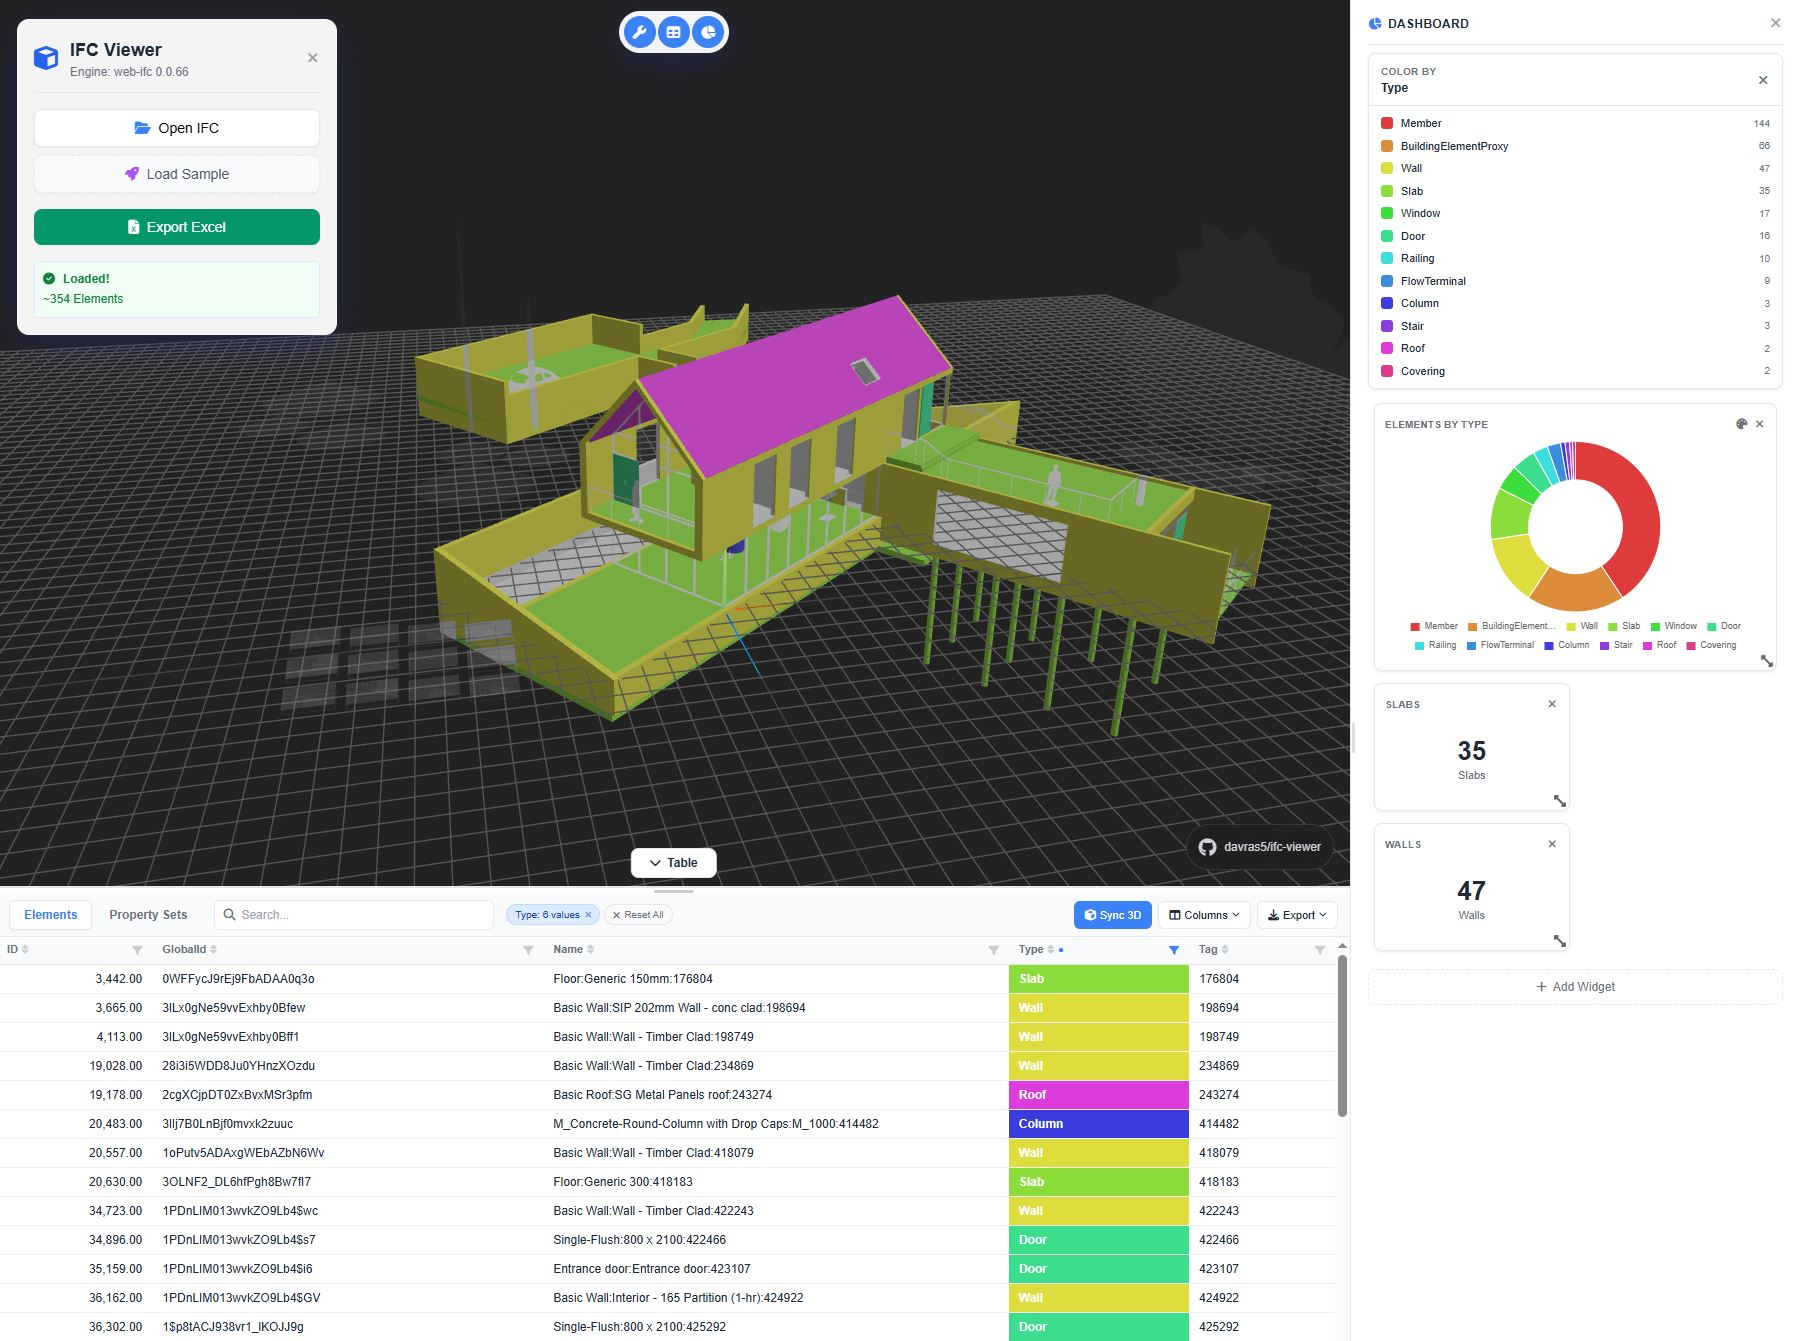
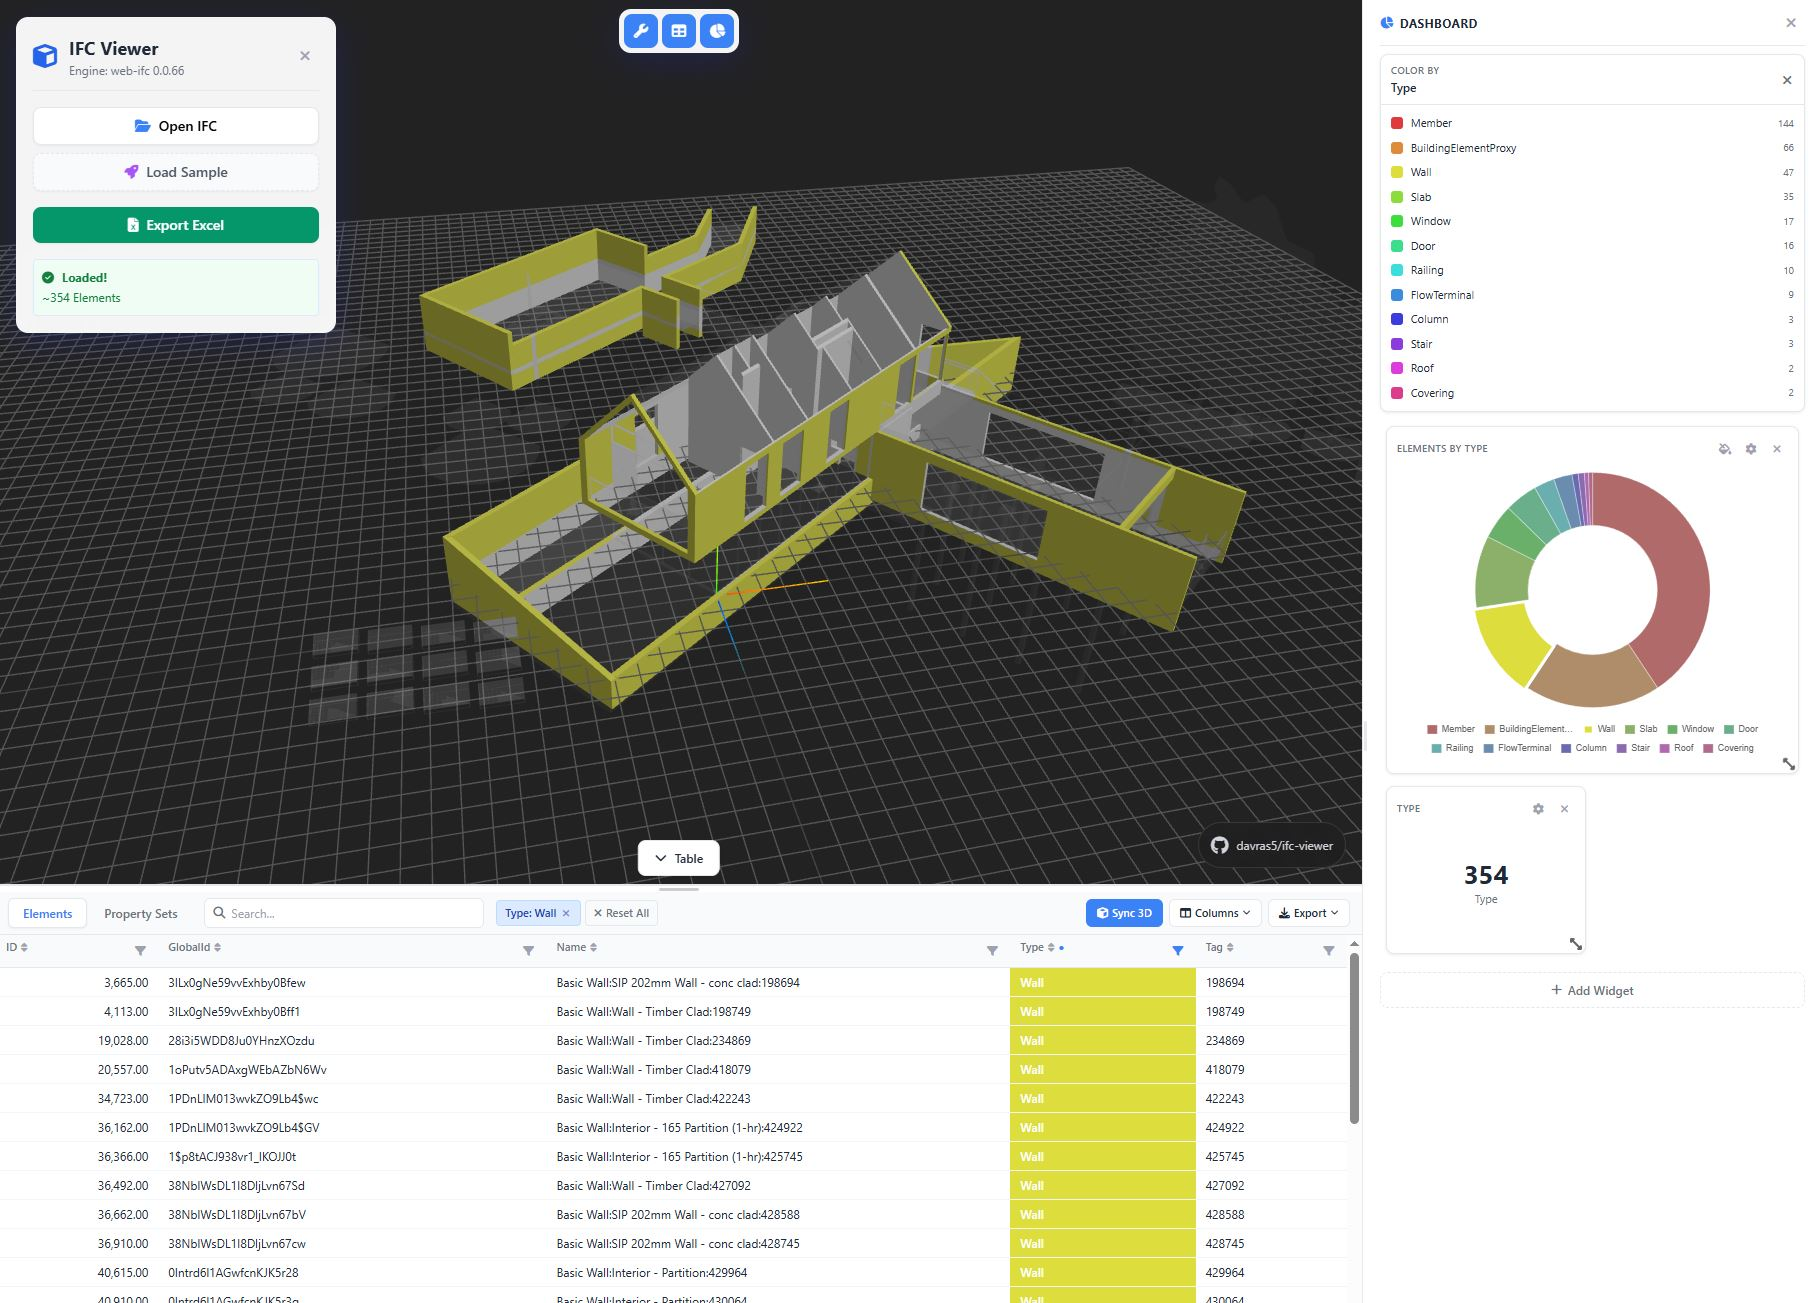
Update

diff --git a/js/app.js b/js/app.js
@@ -87,7 +87,8 @@ const ELEMENT_CATEGORIES = [
     WebIFC.IFCWINDOW, WebIFC.IFCDOOR, WebIFC.IFCCOLUMN, WebIFC.IFCBEAM,
     WebIFC.IFCFURNISHINGELEMENT, WebIFC.IFCBUILDINGELEMENTPROXY, WebIFC.IFCROOF,
     WebIFC.IFCSTAIR, WebIFC.IFCRAILING, WebIFC.IFCMEMBER, WebIFC.IFCCOVERING,
-    WebIFC.IFCFLOWTERMINAL, WebIFC.IFCFLOWSEGMENT
+    WebIFC.IFCFLOWTERMINAL, WebIFC.IFCFLOWSEGMENT,
+    WebIFC.IFCBUILDINGSTOREY, WebIFC.IFCSPACE
 ];
 
 const tablePanel = document.getElementById('table-panel');
@@ -176,6 +177,86 @@ onLegendChange((visible) => {
 
 // Init dashboard
 initDashboard();
+
+// Viewer toolbar
+const viewerToolbar = document.getElementById('viewer-toolbar');
+const tbViewerTools = document.getElementById('tb-viewer-tools');
+const vtMaterial = document.getElementById('vt-material');
+const vtGrid = document.getElementById('vt-grid');
+const vtPan = document.getElementById('vt-pan');
+
+function setViewerToolbarOpen(open) {
+    viewerToolbar.classList.toggle('hidden', !open);
+    tbViewerTools.classList.toggle('active', open);
+}
+
+tbViewerTools.addEventListener('click', () => {
+    setViewerToolbarOpen(viewerToolbar.classList.contains('hidden'));
+});
+document.getElementById('vt-close').addEventListener('click', () => {
+    setViewerToolbarOpen(false);
+});
+
+// Material toggle: cycles through Solid → X-ray → Wireframe
+let materialMode = 0; // 0=solid, 1=xray, 2=wireframe
+const materialModeIcons = ['fa-swatchbook', 'fa-eye', 'fa-border-none'];
+const materialModeTitles = ['Solid view', 'X-ray view', 'Wireframe view'];
+
+function applyMaterialMode() {
+    if (!ifcModel) return;
+    const mat = ifcModel.material;
+    const applyTo = Array.isArray(mat) ? mat : [mat];
+
+    for (const m of applyTo) {
+        switch (materialMode) {
+            case 0: // Solid
+                m.transparent = false;
+                m.opacity = 1;
+                m.wireframe = false;
+                m.depthWrite = true;
+                break;
+            case 1: // X-ray
+                m.transparent = true;
+                m.opacity = 0.3;
+                m.wireframe = false;
+                m.depthWrite = false;
+                break;
+            case 2: // Wireframe
+                m.transparent = false;
+                m.opacity = 1;
+                m.wireframe = true;
+                m.depthWrite = true;
+                break;
+        }
+        m.needsUpdate = true;
+    }
+
+    // Update button icon and state
+    const icon = vtMaterial.querySelector('i');
+    icon.className = `fa-solid ${materialModeIcons[materialMode]}`;
+    vtMaterial.title = materialModeTitles[materialMode];
+    vtMaterial.classList.toggle('active', materialMode !== 0);
+}
+
+vtMaterial.addEventListener('click', () => {
+    materialMode = (materialMode + 1) % 3;
+    applyMaterialMode();
+});
+
+vtGrid.addEventListener('click', () => {
+    const active = vtGrid.classList.toggle('active');
+    grid.visible = active;
+    axes.visible = active;
+});
+
+vtPan.addEventListener('click', () => {
+    const active = vtPan.classList.toggle('active');
+    if (active) {
+        controls.mouseButtons.LEFT = THREE.MOUSE.PAN;
+    } else {
+        controls.mouseButtons.LEFT = THREE.MOUSE.ROTATE;
+    }
+});
 
 // Shared data for dashboard
 window.__ifcViewerData = { elements: [], psets: [] };
@@ -399,6 +480,10 @@ async function loadModel(url) {
         ifcModel = await ifcLoader.loadAsync(url);
         scene.add(ifcModel);
 
+        // Reset material mode to solid on new model
+        materialMode = 0;
+        applyMaterialMode();
+
         // Auto-center camera
         const box = new THREE.Box3().setFromObject(ifcModel);
         const center = box.getCenter(new THREE.Vector3());
@@ -434,6 +519,70 @@ async function loadModel(url) {
 }
 
 async function extractTableData(modelID) {
+    // Build storey and space maps: elementExpressID → name
+    const storeyMap = new Map(); // expressID → storey name
+    const spaceMap = new Map();  // expressID → space name
+
+    try {
+        // Get all spatial containment relationships
+        const rels = await ifcLoader.ifcManager.getAllItemsOfType(modelID, WebIFC.IFCRELCONTAINEDINSPATIALSTRUCTURE, true);
+        for (const rel of rels) {
+            const structure = rel.RelatingStructure;
+            if (!structure) continue;
+
+            // Resolve the spatial structure element
+            let structureProps;
+            try {
+                structureProps = await ifcLoader.ifcManager.getItemProperties(modelID, structure.value);
+            } catch (_) { continue; }
+
+            const structureName = structureProps?.Name?.value ?? '';
+            const structureType = structureProps?.constructor?.name ?? '';
+
+            const relatedElements = rel.RelatedElements || [];
+            for (const ref of relatedElements) {
+                const eid = ref.value;
+                if (structureType.includes('Storey') || structureType.includes('BuildingStorey')) {
+                    storeyMap.set(eid, structureName);
+                } else if (structureType.includes('Space')) {
+                    spaceMap.set(eid, structureName);
+                }
+            }
+        }
+
+        // Also get IfcSpace entities and map elements inside them
+        const spaceRels = await ifcLoader.ifcManager.getAllItemsOfType(modelID, WebIFC.IFCRELSPACEBOUNDARY, false)
+            .catch(() => []);
+        // IfcRelSpaceBoundary is less common; spatial containment above covers most cases
+    } catch (err) {
+        console.warn('Could not extract spatial structure:', err);
+    }
+
+    // Get storey info for elements via aggregation (elements in storeys via IfcRelAggregates)
+    try {
+        const aggRels = await ifcLoader.ifcManager.getAllItemsOfType(modelID, WebIFC.IFCRELAGGREGATES, true);
+        for (const rel of aggRels) {
+            const relating = rel.RelatingObject;
+            if (!relating) continue;
+
+            let relatingProps;
+            try {
+                relatingProps = await ifcLoader.ifcManager.getItemProperties(modelID, relating.value);
+            } catch (_) { continue; }
+
+            const relatingType = relatingProps?.constructor?.name ?? '';
+            if (!relatingType.includes('Storey') && !relatingType.includes('BuildingStorey')) continue;
+
+            const storeyName = relatingProps?.Name?.value ?? '';
+            const relatedObjects = rel.RelatedObjects || [];
+            for (const ref of relatedObjects) {
+                if (!storeyMap.has(ref.value)) {
+                    storeyMap.set(ref.value, storeyName);
+                }
+            }
+        }
+    } catch (_) { /* skip */ }
+
     const elements = [];
     const psets = [];
 
@@ -447,6 +596,8 @@ async function extractTableData(modelID) {
                 Name: el.Name?.value ?? '',
                 Type: typeName,
                 Tag: el.Tag?.value ?? '',
+                Level: storeyMap.get(el.expressID) ?? '',
+                Space: spaceMap.get(el.expressID) ?? '',
             });
 
             try {

diff --git a/index.html b/index.html
@@ -55,10 +55,13 @@
                 <!-- Toggle bar (top center) -->
                 <div id="toggle-bar" class="toggle-bar glass-panel" role="toolbar" aria-label="Panel toggles">
                     <button id="tb-controls" class="tb-btn active" title="Controls" aria-label="Toggle controls panel">
-                        <i class="fa-solid fa-wrench" aria-hidden="true"></i>
+                        <i class="fa-solid fa-upload" aria-hidden="true"></i>
                     </button>
                     <button id="tb-table" class="tb-btn" title="Table" aria-label="Toggle data table">
                         <i class="fa-solid fa-table" aria-hidden="true"></i>
+                    </button>
+                    <button id="tb-viewer-tools" class="tb-btn active" title="Viewer Tools" aria-label="Toggle viewer tools">
+                        <i class="fa-solid fa-screwdriver-wrench" aria-hidden="true"></i>
                     </button>
                     <button id="tb-dashboard" class="tb-btn" title="Dashboard" aria-label="Toggle dashboard">
                         <i class="fa-solid fa-chart-pie" aria-hidden="true"></i>
@@ -112,6 +115,25 @@
                     <i class="fa-solid fa-chevron-up tbl-toggle-arrow"></i>
                     <span>Table</span>
                 </button>
+
+                <!-- Viewer toolbar (bottom-left) -->
+                <div id="viewer-toolbar" class="viewer-toolbar glass-panel" role="toolbar" aria-label="Viewer tools">
+                    <button id="vt-material" class="tb-btn" title="Toggle materials" aria-label="Toggle original materials">
+                        <i class="fa-solid fa-swatchbook" aria-hidden="true"></i>
+                    </button>
+                    <button id="vt-grid" class="tb-btn active" title="Toggle grid" aria-label="Toggle grid visibility">
+                        <i class="fa-solid fa-border-all" aria-hidden="true"></i>
+                    </button>
+                    <button id="vt-pan" class="tb-btn" title="Pan mode" aria-label="Toggle pan mode">
+                        <i class="fa-solid fa-hand" aria-hidden="true"></i>
+                    </button>
+                    <button id="vt-measure" class="tb-btn" title="Measure (coming soon)" aria-label="Measure tool" disabled>
+                        <i class="fa-solid fa-ruler" aria-hidden="true"></i>
+                    </button>
+                    <button id="vt-close" class="tb-btn vt-close-btn" title="Close toolbar" aria-label="Close viewer toolbar">
+                        <i class="fa-solid fa-xmark" aria-hidden="true"></i>
+                    </button>
+                </div>
 
                 <!-- Footer -->
                 <div class="absolute bottom-4 right-4 z-10">

diff --git a/css/main.css b/css/main.css
@@ -460,6 +460,28 @@ button:disabled {
     box-shadow: 0 1px 4px rgba(0,0,0,.1);
 }
 .tbl-toggle:hover { background: var(--tbl-row-hover); }
+
+/* ── Viewer toolbar (bottom-center, above table toggle) ── */
+
+.viewer-toolbar {
+    position: absolute;
+    bottom: 64px;
+    left: 50%;
+    transform: translateX(-50%);
+    z-index: 20;
+    display: flex;
+    align-items: center;
+    gap: var(--sp-1);
+    padding: var(--sp-1);
+    border-radius: var(--radius-lg);
+}
+.viewer-toolbar.hidden { display: none; }
+.vt-close-btn {
+    margin-left: var(--sp-1);
+    border-left: 1px solid var(--color-border);
+    padding-left: var(--sp-1);
+    border-radius: 0 var(--radius-md) var(--radius-md) 0;
+}
 .tbl-toggle .tbl-toggle-arrow { font-size: 12px; }
 
 /* ── Global loading overlay ── */

diff --git a/js/table.js b/js/table.js
@@ -72,6 +72,8 @@ const ELEMENT_COLS = [
   { key: "GlobalId", label: "GlobalId", cls: "col-e-gid" },
   { key: "Name", label: "Name", cls: "col-e-name" },
   { key: "Type", label: "Type", cls: "col-e-type" },
+  { key: "Level", label: "Level", cls: "col-e-level" },
+  { key: "Space", label: "Space", cls: "col-e-space" },
   { key: "Tag", label: "Tag", cls: "col-e-tag" },
 ];
 
@@ -974,7 +976,7 @@ function renderElements() {
   if (eSearch) {
     data = data.filter((el) => {
       const s =
-        `${el.expressID} ${el.GlobalId} ${el.Name} ${el.Type} ${el.Tag}`.toLowerCase();
+        `${el.expressID} ${el.GlobalId} ${el.Name} ${el.Type} ${el.Level} ${el.Space} ${el.Tag}`.toLowerCase();
       return s.includes(eSearch);
     });
   }

diff --git a/js/dashboard.js b/js/dashboard.js
@@ -352,6 +352,8 @@ const COLUMNS = [
   { key: "GlobalId", label: "GlobalId" },
   { key: "Name", label: "Name" },
   { key: "Type", label: "Type" },
+  { key: "Level", label: "Level" },
+  { key: "Space", label: "Space" },
   { key: "Tag", label: "Tag" },
 ];
 
